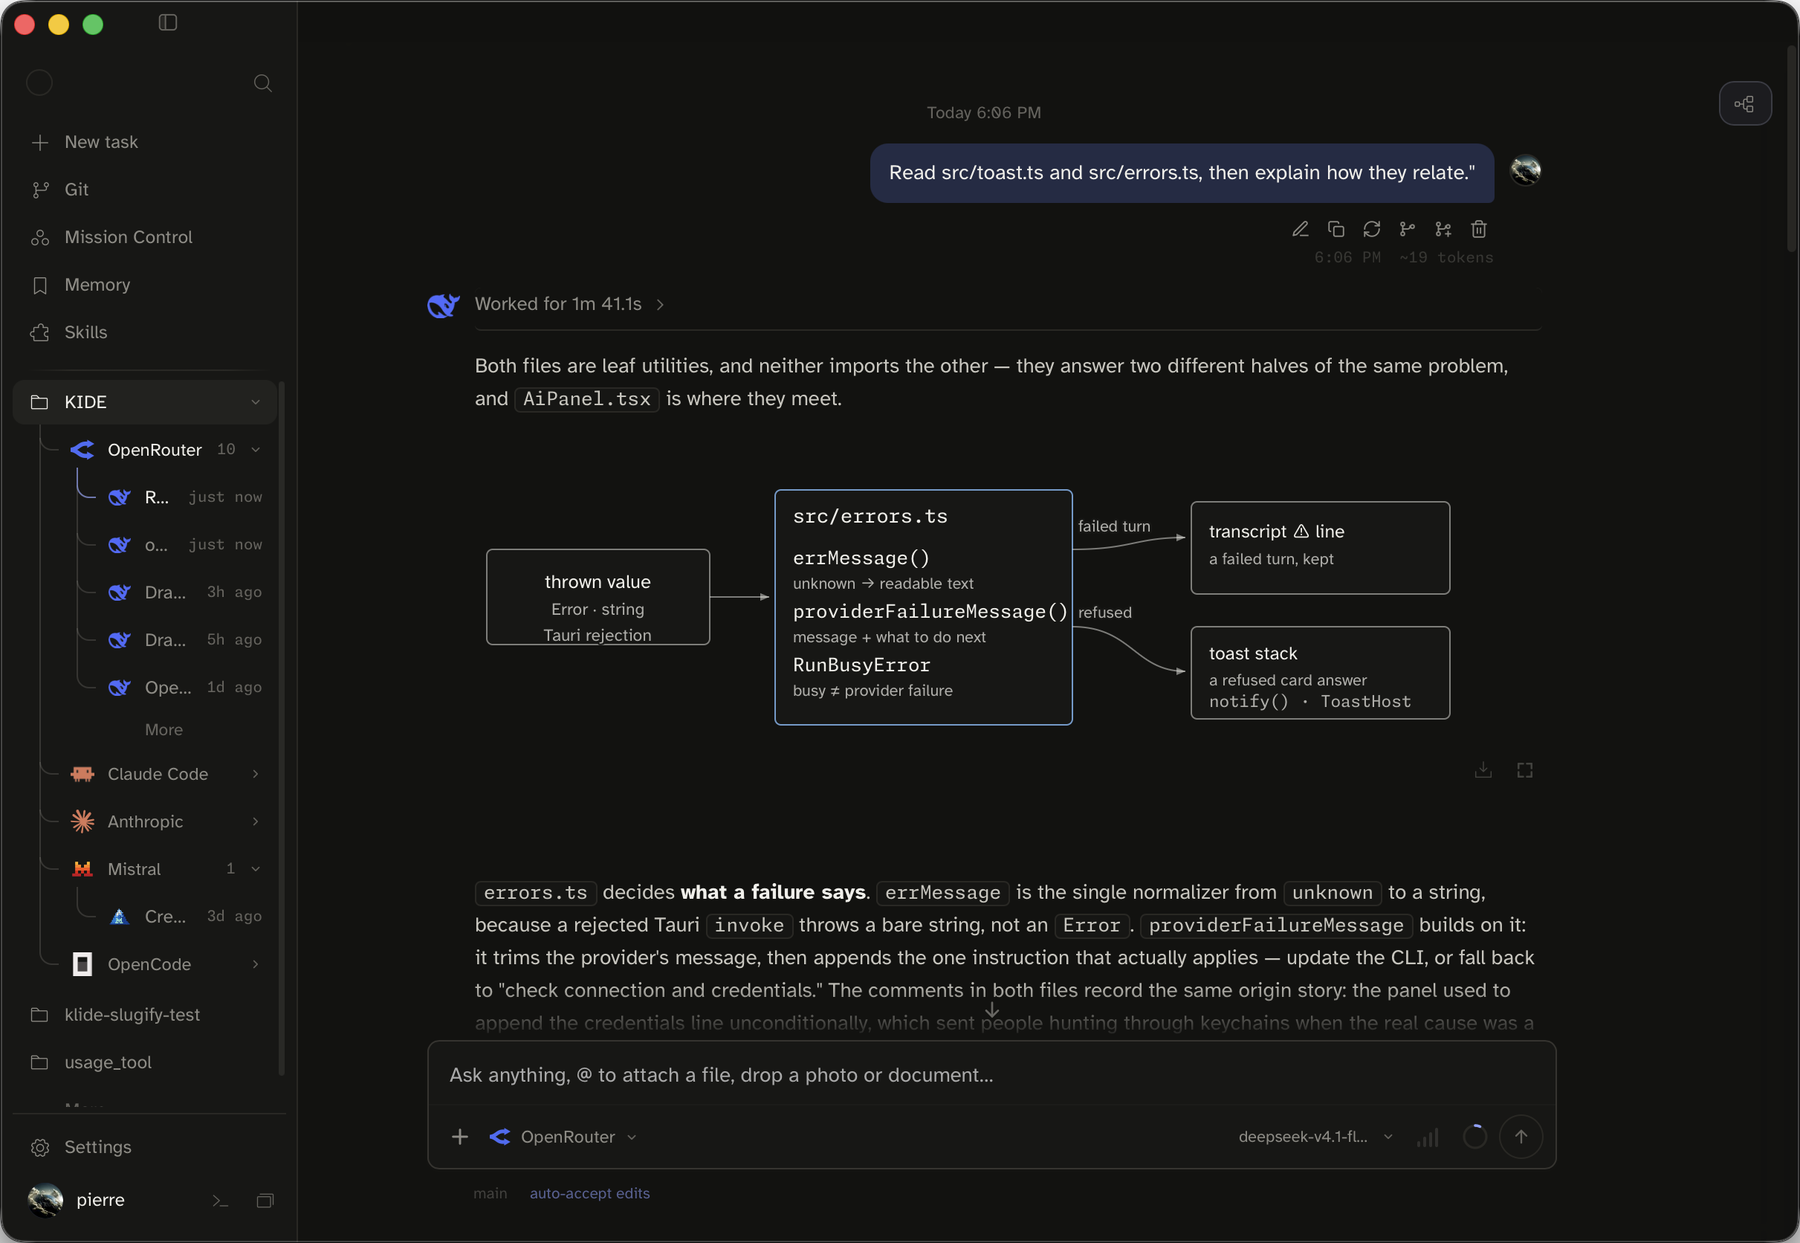
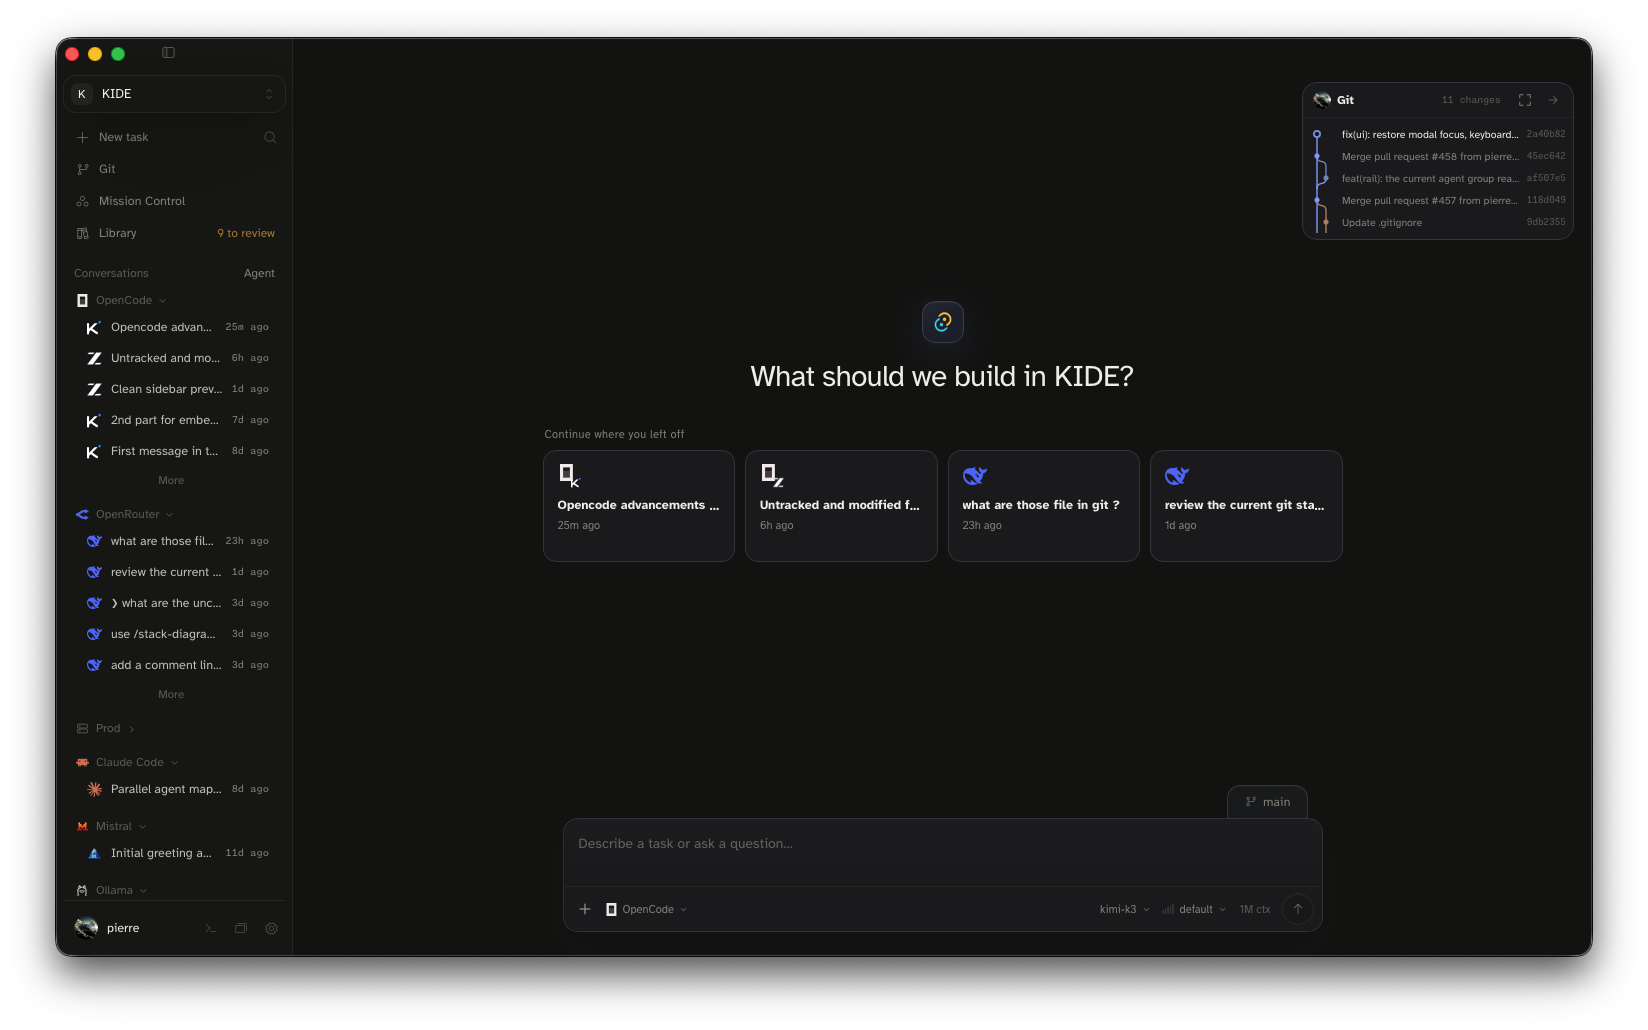
docs(readme): refresh the Focus screenshot

diff --git a/README.md b/README.md
@@ -44,7 +44,7 @@ Open a folder, start a new project, or clone a repository from one quiet page, w
 
 A single centered conversation on any agent: a local model, a hosted API, or a subscription CLI running headless, with no API key anywhere in Klide. Everything a run did before its answer folds to one line, a plan or a question opens as a card beside the conversation, an answer can draw a diagram in place, `⌘N` opens a second conversation beside the first, and the shared terminal docks under the canvas so a run keeps streaming while you shell.
 
-<img src=".github/assets/focus.png" alt="Klide focus mode: the project and conversation rail on the left, one centered conversation where the answer folds its work to a single line and draws an inline diagram of how two files relate" width="900" />
+<img src=".github/assets/focus.png" alt="Klide focus mode: the rail with conversations grouped by agent on the left, a centered start stage asking what to build with recent conversations to continue, the Git island in the corner, and the composer on an OpenCode agent" width="900" />
 
 Press **⌘F** to open the search bar and find text in the current conversation, including folded tool activity. Recorded reasoning is excluded unless you enable **Include reasoning** with the search bar’s reasoning switch. **Jump to latest** returns to live output.
 
